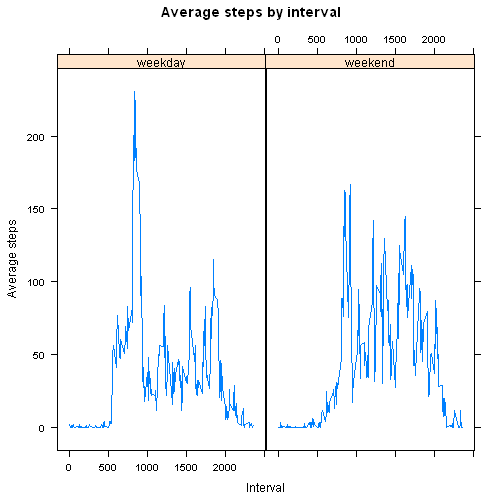
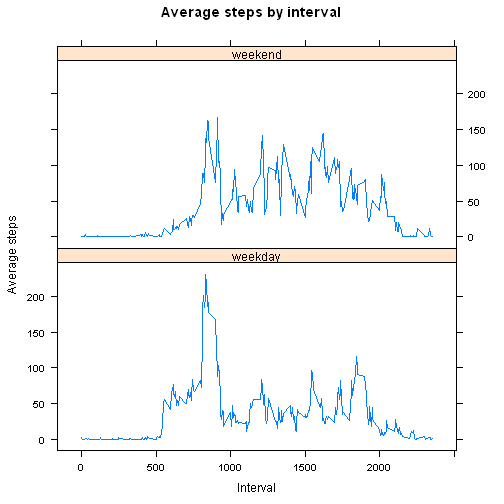
Updated files

diff --git a/PA1_template.html b/PA1_template.html
@@ -396,10 +396,10 @@ imputed_data_avgsteps &lt;- summarize(imputed_data_grp, avgsteps = mean(steps))
 <p>Next, we plot the time series in panels.</p>
 
 <pre><code class="r">xyplot(avgsteps ~ interval | daytype, imputed_data_avgsteps,
-       type=&quot;l&quot;, xlab=&quot;Interval&quot;, ylab=&quot;Average steps&quot;, main=&quot;Average steps by interval&quot;)
+       type=&quot;l&quot;, xlab=&quot;Interval&quot;, ylab=&quot;Average steps&quot;, main=&quot;Average steps by interval&quot;, layout=c(1,2))
 </code></pre>
 
[2 lines of base64/hex data omitted]
 
 </body>
 

diff --git a/PA1_template.md b/PA1_template.md
@@ -193,7 +193,7 @@ Next, we plot the time series in panels.
 
 ```r
 xyplot(avgsteps ~ interval | daytype, imputed_data_avgsteps,
-       type="l", xlab="Interval", ylab="Average steps", main="Average steps by interval")
+       type="l", xlab="Interval", ylab="Average steps", main="Average steps by interval", layout=c(1,2))
 ```
 
 ![plot of chunk panelplot](figure/panelplot-1.png) 
